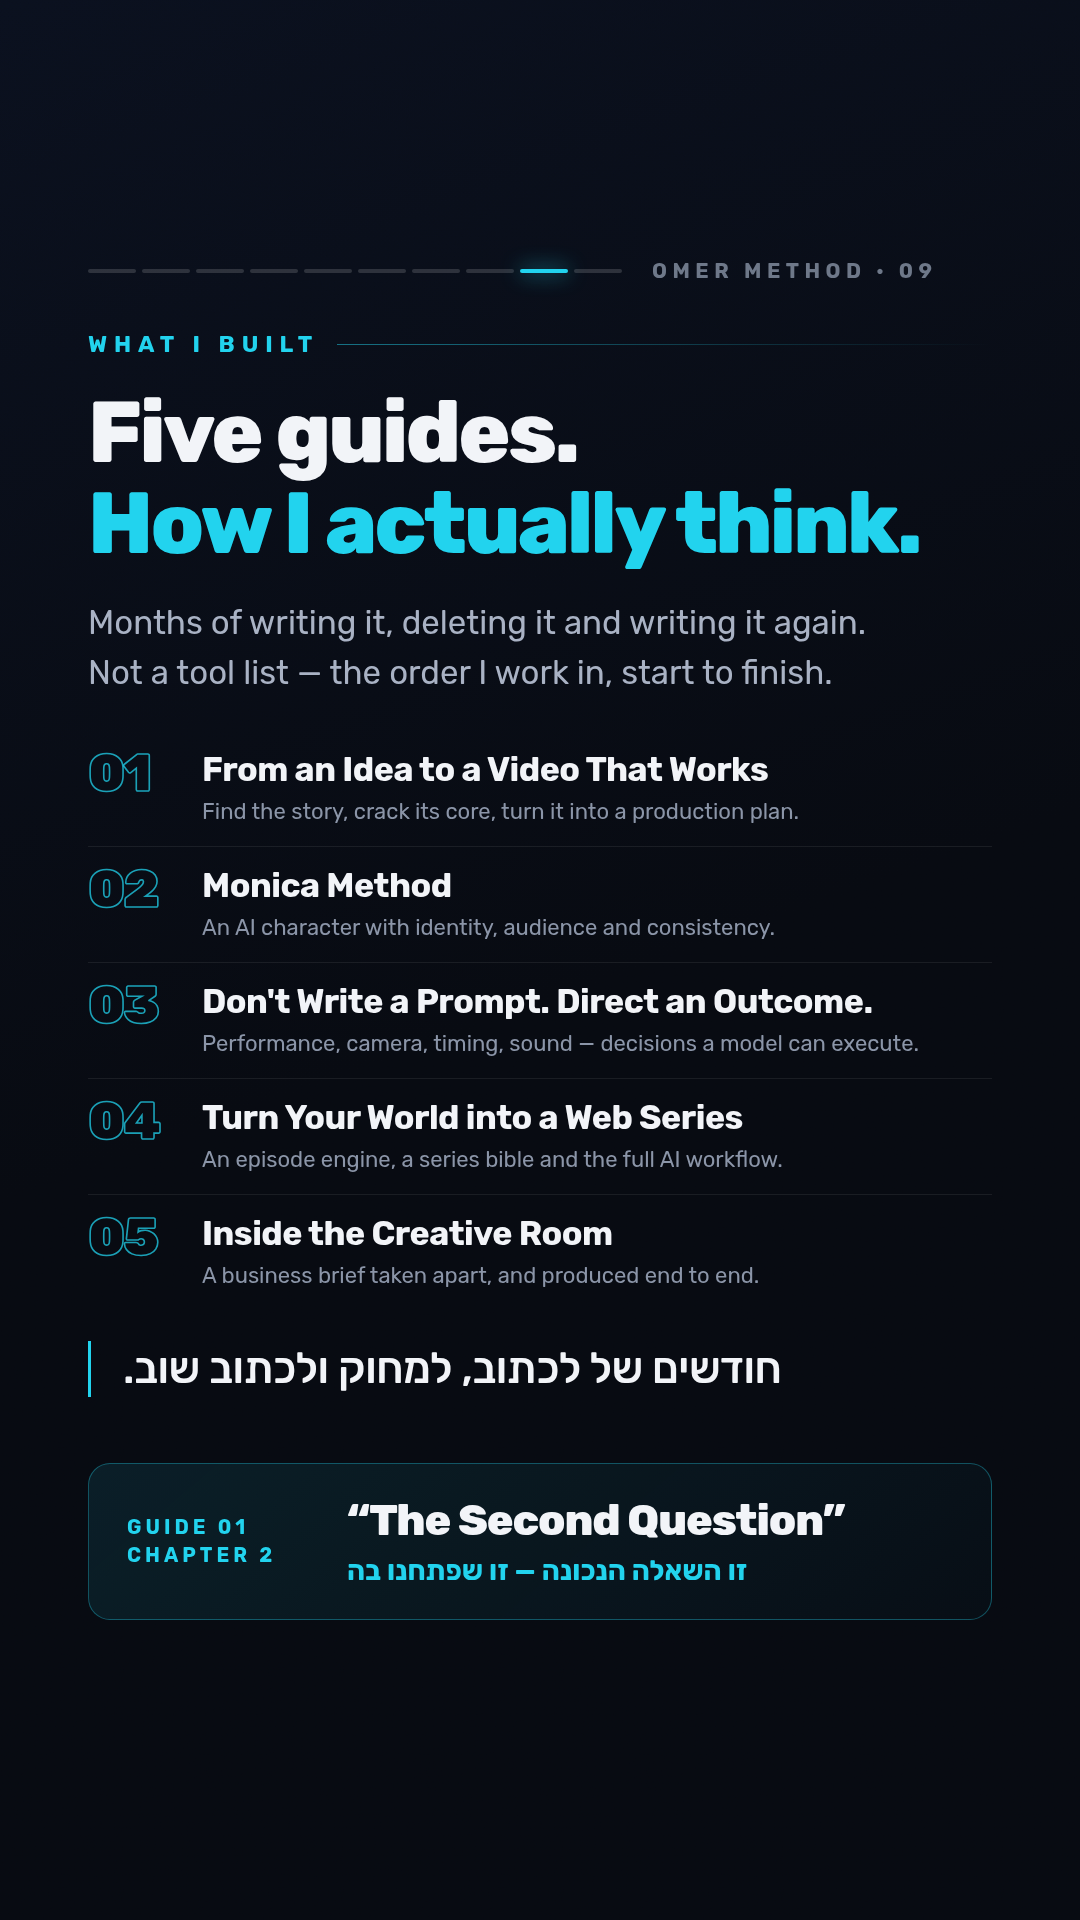
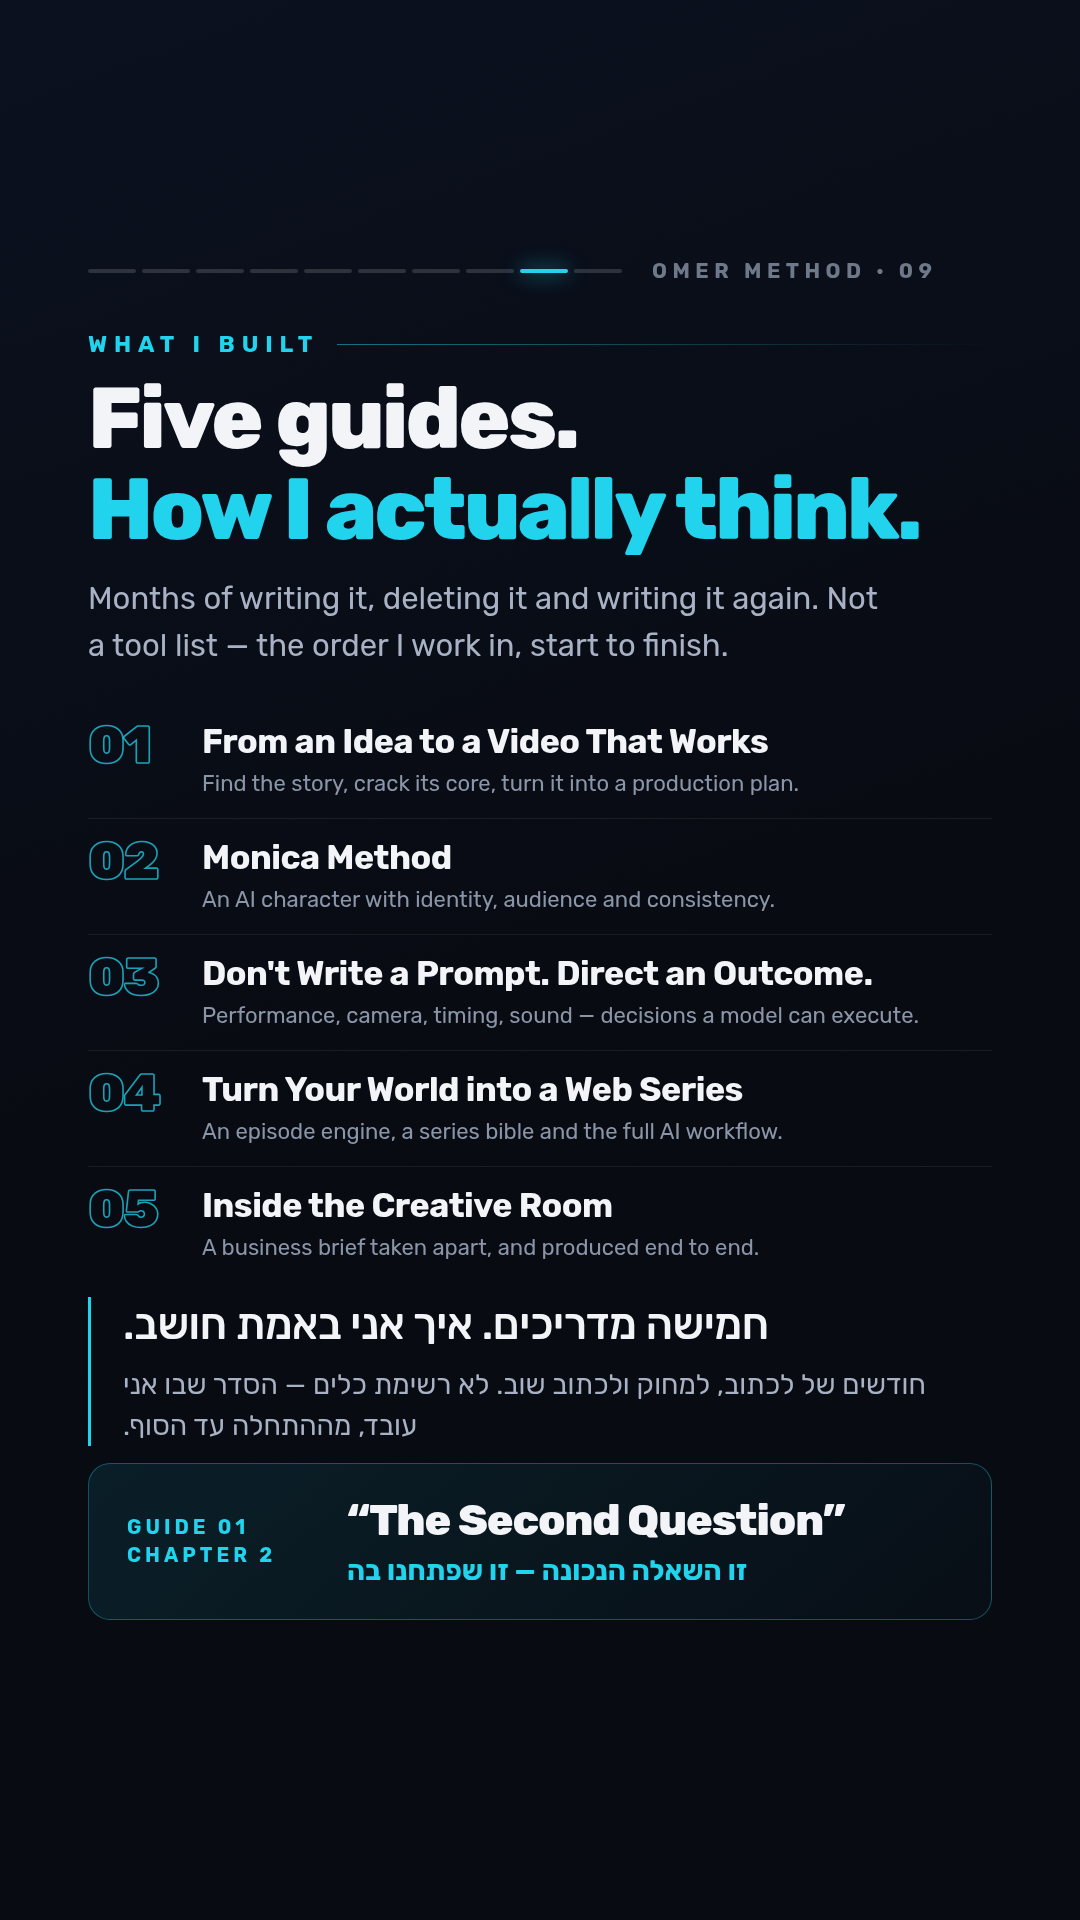
Give Hebrew content parity with English
Hebrew carried a one-line summary while English carried a full deck of
three to five sentences, so an Israeli reader was getting a stripped
version of the argument. Each frame now gives Hebrew its own deck of the
same substance, written idiomatically rather than translated, inside a
single cyan rail that spans lead and deck together.

The Hebrew lead now mirrors the English lead instead of restating its own
deck — seven frames had that duplication once the decks landed.

Adds band.mjs. The compositions are absolutely positioned, so content
overflowing a frame's .pad box is invisible to the canvas check in
lines.mjs; four frames overflowed silently when the decks went in.

Claude-Session: https://claude.ai/code/session_0113ue75zsKk6knXSw8ei82D

diff --git a/omer-method-launch/01-stories/frames.html b/omer-method-launch/01-stories/frames.html
@@ -84,6 +84,16 @@ body{background:#14171d;font-family:Rubik,sans-serif;-webkit-font-smoothing:anti
 .he-line.right{text-align:right;border-left:none;border-right:3px solid var(--cy);
                padding-left:0;padding-right:32px;margin-left:auto}
 .he-line.bare{border:none;padding:0}
+.he-block{border-left:3px solid var(--cy);padding-left:32px;max-width:880px}
+.he-block.right{border-left:none;border-right:3px solid var(--cy);
+                padding-left:0;padding-right:32px;margin-left:auto}
+.he-block .he-line{border:none;padding:0;max-width:none}
+.he-deck{direction:rtl;text-align:left;font-size:31px;font-weight:400;line-height:1.52;
+         color:var(--deck);margin-top:15px}
+.he-block.right .he-line,.he-block.right .he-deck{text-align:right}
+.he-deck.tight{font-size:28px;line-height:1.45;margin-top:12px}
+.paperframe .he-deck{color:#4A5468}
+.paperframe .he-block{border-left-color:var(--cy-deep)}
 .he-line .cy{color:var(--cy)}
 
 .rule{height:1px;background:var(--hair)}
@@ -353,7 +363,7 @@ body{background:#14171d;font-family:Rubik,sans-serif;-webkit-font-smoothing:anti
       AI video. For three years, in every language, the same six words. It took me a long time to
       admit <b>it is the wrong question</b> — and that what people actually want sits somewhere else
       entirely.</div>
-    <div class="he-line" style="margin-top:38px">שלוש שנים שואלים אותי את זה.<br>לקח לי זמן להבין שזו לא השאלה.</div>
+    <div class="he-block" style="margin-top:38px"><div class="he-line">&rdquo;איך עשית את זה?&ldquo;</div><div class="he-deck">זה הדבר הראשון שכל אחד שואל אותי על סרטון <bdi>AI</bdi>. שלוש שנים, בכל שפה, אותן שש מילים. לקח לי הרבה זמן להודות שזו השאלה הלא נכונה — ושמה שאנשים באמת רוצים נמצא במקום אחר לגמרי.</div></div>
     <div class="grow"></div>
     <div class="nums">
       <div><div class="n">2M</div><div class="l">views</div></div>
@@ -380,8 +390,8 @@ body{background:#14171d;font-family:Rubik,sans-serif;-webkit-font-smoothing:anti
     <div class="deck" style="margin-top:34px;font-size:34px">I have been inside this since the first models were barely usable —
       learning the tools while they changed under me, month after month. And the thing I keep
       noticing has nothing to do with the tools.</div>
-    <div class="pull" style="margin-top:44px;font-size:56px">Almost nobody knows what to do<br>once they are <span class="cy">standing inside the studio.</span></div>
-    <div class="he-line right" style="margin-top:44px;font-size:46px">ה־AI נתן לכולם אולפן.<br>רובם לא יודעים מה לעשות בתוכו.</div>
+    <div class="pull" style="margin-top:30px;font-size:50px">Almost nobody knows what to do<br>once they are <span class="cy">standing inside the studio.</span></div>
+    <div class="he-block right" style="margin-top:44px"><div class="he-line">ה־<bdi>AI</bdi> נתן לכולם אולפן.</div><div class="he-deck">אני בפנים מאז שהמודלים הראשונים בקושי עבדו — לומד את הכלים בזמן שהם משתנים מתחתיי, חודש אחרי חודש. והדבר שאני הכי שם לב אליו לא קשור לכלים בכלל: כמעט אף אחד לא יודע מה לעשות ברגע שהוא כבר עומד בתוך האולפן.</div></div>
     <div class="grow"></div>
     <div class="tl" style="margin-top:24px">
       <div class="seg"><div class="yr">2023</div><div class="bar" style="background:rgba(167,139,250,.35)"></div></div>
@@ -409,11 +419,11 @@ body{background:#14171d;font-family:Rubik,sans-serif;-webkit-font-smoothing:anti
 
   <div class="pad">
     <div class="over">Proof 01 — Monica Andrew</div>
-    <div class="lead sm" style="margin-top:26px">A song by someone who<br>doesn't exist became<br><span class="cy">a real song.</span></div>
-    <div class="deck" style="margin-top:30px;font-size:33px">I built her to be consistent enough that nobody would clock her as AI —
+    <div class="lead sm" style="margin-top:20px">A song by someone who<br>doesn't exist became<br><span class="cy">a real song.</span></div>
+    <div class="deck" style="margin-top:22px;font-size:30px">I built her to be consistent enough that nobody would clock her as AI —
       the face, the voice, the world, the continuity between one video and the next. Then people
       started asking me where they could actually listen to her song. So I put it on Spotify.</div>
-    <div class="he-line sm" style="margin-top:32px">ביקשו לשמוע את השיר שלה.<br>אז העליתי אותו לספוטיפיי.</div>
+    <div class="he-block" style="margin-top:16px"><div class="he-line sm">שיר של דמות שלא קיימת<br>הפך לשיר אמיתי.</div><div class="he-deck tight">בניתי אותה עקבית מספיק כדי שאף אחד לא יבין שהיא <bdi>AI</bdi> — הפנים, הקול, העולם, הרצף בין סרטון לסרטון. ואז אנשים התחילו לשאול אותי איפה אפשר באמת להאזין לשיר שלה — אז העליתי אותו לספוטיפיי.</div></div>
     <div class="grow"></div>
     <div class="statline">
       <div><div class="n">90K</div><div class="l">followers</div></div>
@@ -462,7 +472,7 @@ body{background:#14171d;font-family:Rubik,sans-serif;-webkit-font-smoothing:anti
       not the same audience.</div>
     <div class="grow"></div>
     <div class="pull" style="font-size:46px;margin-bottom:30px">What stayed the same was<br><span class="cy">the order of my decisions.</span></div>
-    <div class="he-line sm">מה שנשאר קבוע — סדר ההחלטות.</div>
+    <div class="he-block"><div class="he-line sm">מה שנשאר קבוע — סדר ההחלטות.</div><div class="he-deck">לא אותו כלי, לא אותו פורמט, לא אותו קהל. שלושה עולמות שונים לגמרי — ובכל אחד מהם עבדה בדיוק אותה שיטה.</div></div>
   </div>
 </section>
 
@@ -506,7 +516,7 @@ body{background:#14171d;font-family:Rubik,sans-serif;-webkit-font-smoothing:anti
     </div>
     <div class="grow" style="min-height:46px"></div>
     <div class="lead sm">Now look at what they<br>were <span class="cy">actually reacting to.</span></div>
-    <div class="he-line sm" style="margin-top:32px">תסתכלו על מה הם באמת הגיבו.</div>
+    <div class="he-block" style="margin-top:32px"><div class="he-line sm">תסתכלו על מה הם באמת הגיבו.</div><div class="he-deck">אלפי תגובות, בארבע שפות, על סרטונים שמעולם לא עסקו בטכנולוגיה. אחת מהן אספה לבדה יותר לייקים ממה שרוב הפוסטים מקבלים.</div></div>
   </div>
 </section>
 
@@ -542,7 +552,7 @@ body{background:#14171d;font-family:Rubik,sans-serif;-webkit-font-smoothing:anti
     <div class="lead sm" style="margin-top:26px">They stopped watching<br>and <span class="cy">started typing.</span></div>
     <div class="deck" style="margin-top:26px;font-size:32px">That is the whole difference between content people admire
       and content that actually does something.</div>
-    <div class="he-line sm" style="margin-top:30px">מילה אחת, וטור שלם של אנשים.</div>
+    <div class="he-block" style="margin-top:30px"><div class="he-line sm">מילה אחת, וטור שלם של אנשים.</div><div class="he-deck">בסרטון אחד ביקשתי מילה אחת בתגובות. זה חלק קטן ממה שחזר, וזה המשיך ימים. זה כל ההבדל בין תוכן שמעריכים לבין תוכן שבאמת עושה משהו.</div></div>
   </div>
 </section>
 
@@ -559,7 +569,7 @@ body{background:#14171d;font-family:Rubik,sans-serif;-webkit-font-smoothing:anti
     <div class="deck" style="margin-top:36px">Not the model, not the render, not the workflow. They were reacting to a
       story — to a character they believed in, to a moment that landed. Not <em>what</em> I made.
       <b>How I told it.</b></div>
-    <div class="he-line sm" style="margin-top:34px">אף אחד לא הזכיר את ה־AI.<br>הם הגיבו לסיפור.</div>
+    <div class="he-block" style="margin-top:34px"><div class="he-line sm">אף אחד לא הזכיר את ה־<bdi>AI</bdi>.</div><div class="he-deck">לא את המודל, לא את הרנדר, לא את הוורקפלו. הם הגיבו לסיפור — לדמות שהאמינו בה, לרגע שנחת. לא למה שיצרתי. לאיך שסיפרתי אותו.</div></div>
     <div class="grow"></div>
     <div class="payload">
       <div class="q">So what is the method?</div>
@@ -605,7 +615,7 @@ body{background:#14171d;font-family:Rubik,sans-serif;-webkit-font-smoothing:anti
     </div>
     <div class="grow"></div>
     <div class="lead sm">It doesn't replace you.<br><span class="cy">It sharpens what<br>you already do.</span></div>
-    <div class="he-line sm" style="margin-top:34px">ללמד סרטון <bdi>AI</bdi> זה הקל.<br>הקשה — שהוא ישא את העבודה שלכם.</div>
+    <div class="he-block" style="margin-top:34px"><div class="he-line sm">זה לא מחליף אתכם.<br>זה מחדד את מה שאתם כבר עושים.</div><div class="he-deck">אני לא כאן כדי ללמד אתכם לעשות סרטון <bdi>AI</bdi>. החלק הזה קל היום, ובכנות הוא הכי פחות מעניין בכל הסיפור. הקשה הוא לגרום לו לשאת את מה שאתם כבר עושים.</div></div>
   </div>
 </section>
 
@@ -618,8 +628,8 @@ body{background:#14171d;font-family:Rubik,sans-serif;-webkit-font-smoothing:anti
 
   <div class="pad">
     <div class="over">What I built</div>
-    <div class="lead md" style="margin-top:30px">Five guides.<br><span class="cy">How I actually think.</span></div>
-    <div class="deck" style="margin-top:28px;font-size:33px;max-width:790px">Months of writing it, deleting it and writing it
+    <div class="lead md" style="margin-top:16px">Five guides.<br><span class="cy">How I actually think.</span></div>
+    <div class="deck" style="margin-top:20px;font-size:31px;max-width:790px">Months of writing it, deleting it and writing it
       again. Not a tool list — the order I work in, start to finish.</div>
 
     <div class="idx" style="margin-top:34px">
@@ -640,7 +650,7 @@ body{background:#14171d;font-family:Rubik,sans-serif;-webkit-font-smoothing:anti
         <div class="d">A business brief taken apart, and produced end to end.</div></div></div>
     </div>
 
-    <div class="he-line sm" style="margin-top:32px">חודשים של לכתוב, למחוק ולכתוב שוב.</div>
+    <div class="he-block" style="margin-top:16px"><div class="he-line sm">חמישה מדריכים. איך אני באמת חושב.</div><div class="he-deck tight">חודשים של לכתוב, למחוק ולכתוב שוב. לא רשימת כלים — הסדר שבו אני עובד, מההתחלה עד הסוף.</div></div>
     <div class="grow"></div>
     <div class="callout">
       <div class="lbl">Guide 01<br>Chapter 2</div>
@@ -660,16 +670,16 @@ body{background:#14171d;font-family:Rubik,sans-serif;-webkit-font-smoothing:anti
 
   <div class="pad">
     <div class="over">The honest part</div>
-    <div class="lead sm" style="margin-top:30px">Does it click overnight?<br><span class="dim">No.</span> <span class="cy">It's a muscle.</span></div>
-    <div class="deck" style="margin-top:32px;max-width:800px">You train it by making things, looking at them honestly and making
+    <div class="lead sm" style="margin-top:22px">Does it click overnight?<br><span class="dim">No.</span> <span class="cy">It's a muscle.</span></div>
+    <div class="deck" style="margin-top:22px;max-width:800px">You train it by making things, looking at them honestly and making
       the next one better. After three years of exactly that, I am convinced anyone can build it.</div>
-    <div class="he-line sm" style="margin-top:34px">לא קורה ברגע. זה שריר.<br>אבל כל אחד יכול לאמן אותו.</div>
+    <div class="he-block" style="margin-top:24px"><div class="he-line sm">קורה ברגע? לא. זה שריר.</div><div class="he-deck tight">מאמנים אותו בזה שיוצרים דברים, מסתכלים עליהם בכנות, ועושים את הבא יותר טוב. אחרי שלוש שנים בדיוק של זה — אני משוכנע שכל אחד יכול.</div></div>
 
     <div class="grow"></div>
     <div class="rule" style="margin-bottom:34px"></div>
     <div class="mark">Omer<br><span class="cy">Method</span></div>
     <div style="margin-top:24px"><span class="live"><i></i>Live now · <bdi>באוויר</bdi></span></div>
-    <div class="prices" style="margin-top:32px">
+    <div class="prices" style="margin-top:22px">
       <div><div class="n">$19</div><div class="l">one guide</div></div>
       <div><div class="n"><span class="cy">$49</span></div><div class="l">all five</div></div>
       <div><div class="n">∞</div><div class="l">permanent access</div></div>

diff --git a/omer-method-launch/01-stories/design-system.md b/omer-method-launch/01-stories/design-system.md
@@ -86,9 +86,18 @@ to read. So the copy keeps its substance; what carries it is organisation:
 
 ### Bilingual rule
 
-English leads, Hebrew supports at matching visual weight. The comment evidence
-carries four languages, so English is the line that has to land — but Hebrew is
-never a caption. It gets paper-white, 500–600 weight, and its own cyan rail.
+English leads the composition. Hebrew matches it in **content**, not just weight.
+
+Every frame gives each language a complete block — a lead that mirrors the other
+language's lead, then a deck of the same substance. A reader in either language
+gets the whole argument without needing the other one. Hebrew is never a summary
+of the English: where the two decks say the same thing, they say all of it.
+
+The Hebrew lead mirrors the English *lead*, never restates the Hebrew deck below
+it — that duplication is the failure mode here, and it reads as padding.
+
+Hebrew sets at 50px (lead) / 31px (deck) inside a single cyan rail that spans
+both, so the pair reads as one unit rather than two stray lines.
 
 - Hebrew blocks: `direction: rtl`. Default `text-align: left` keeps them on the
   shared left axis with a **left** rail.
